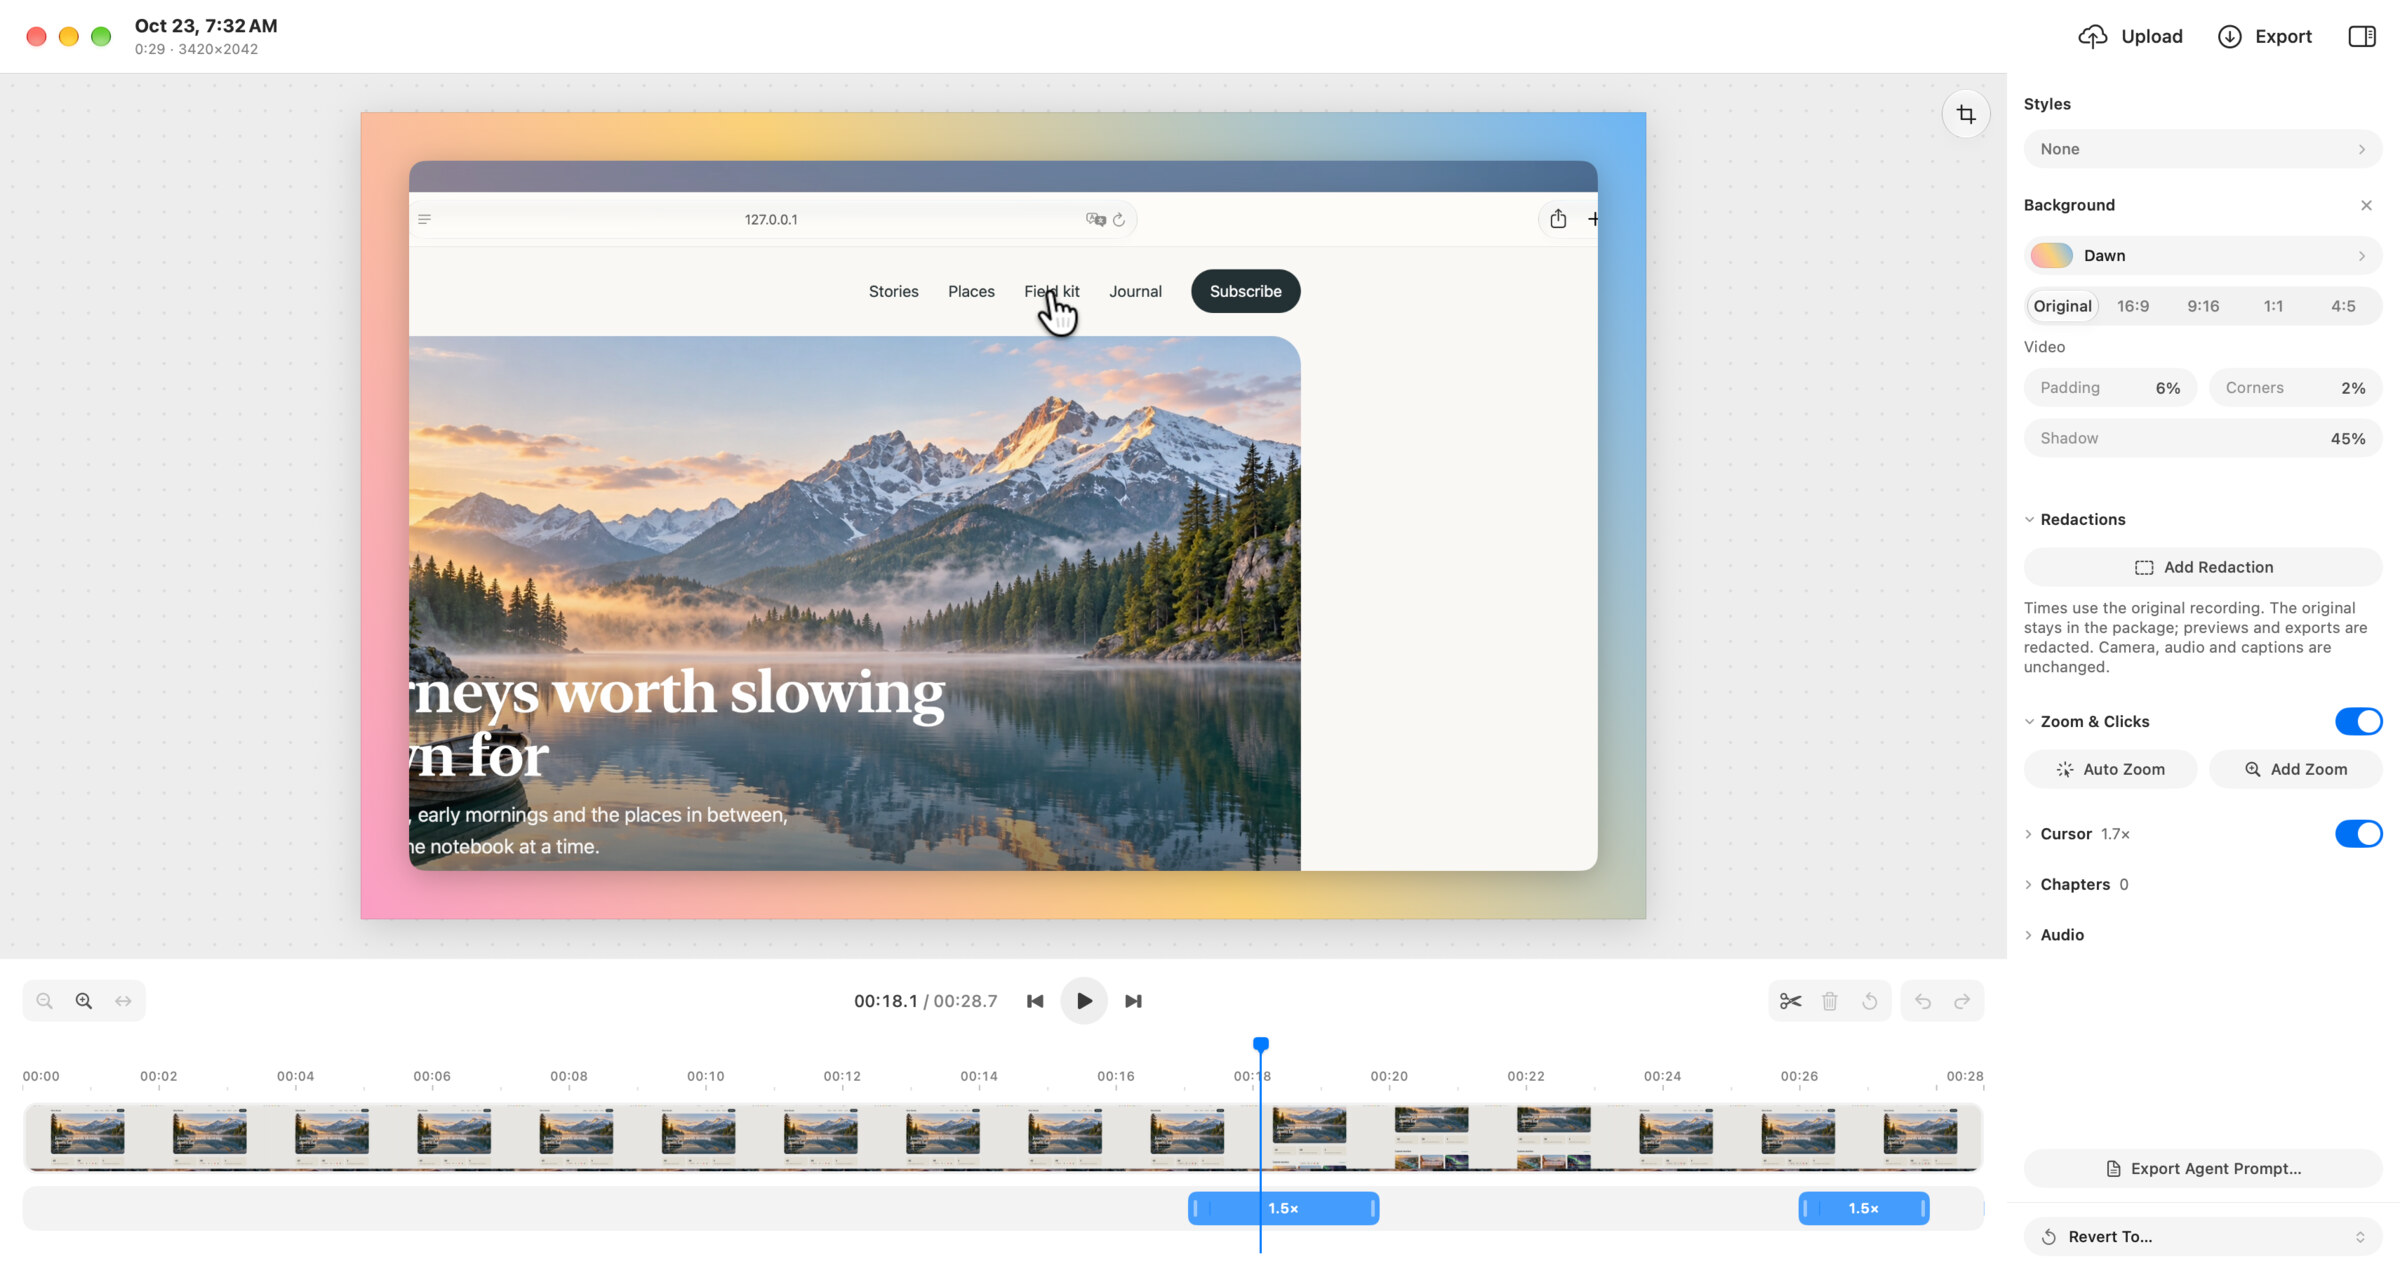
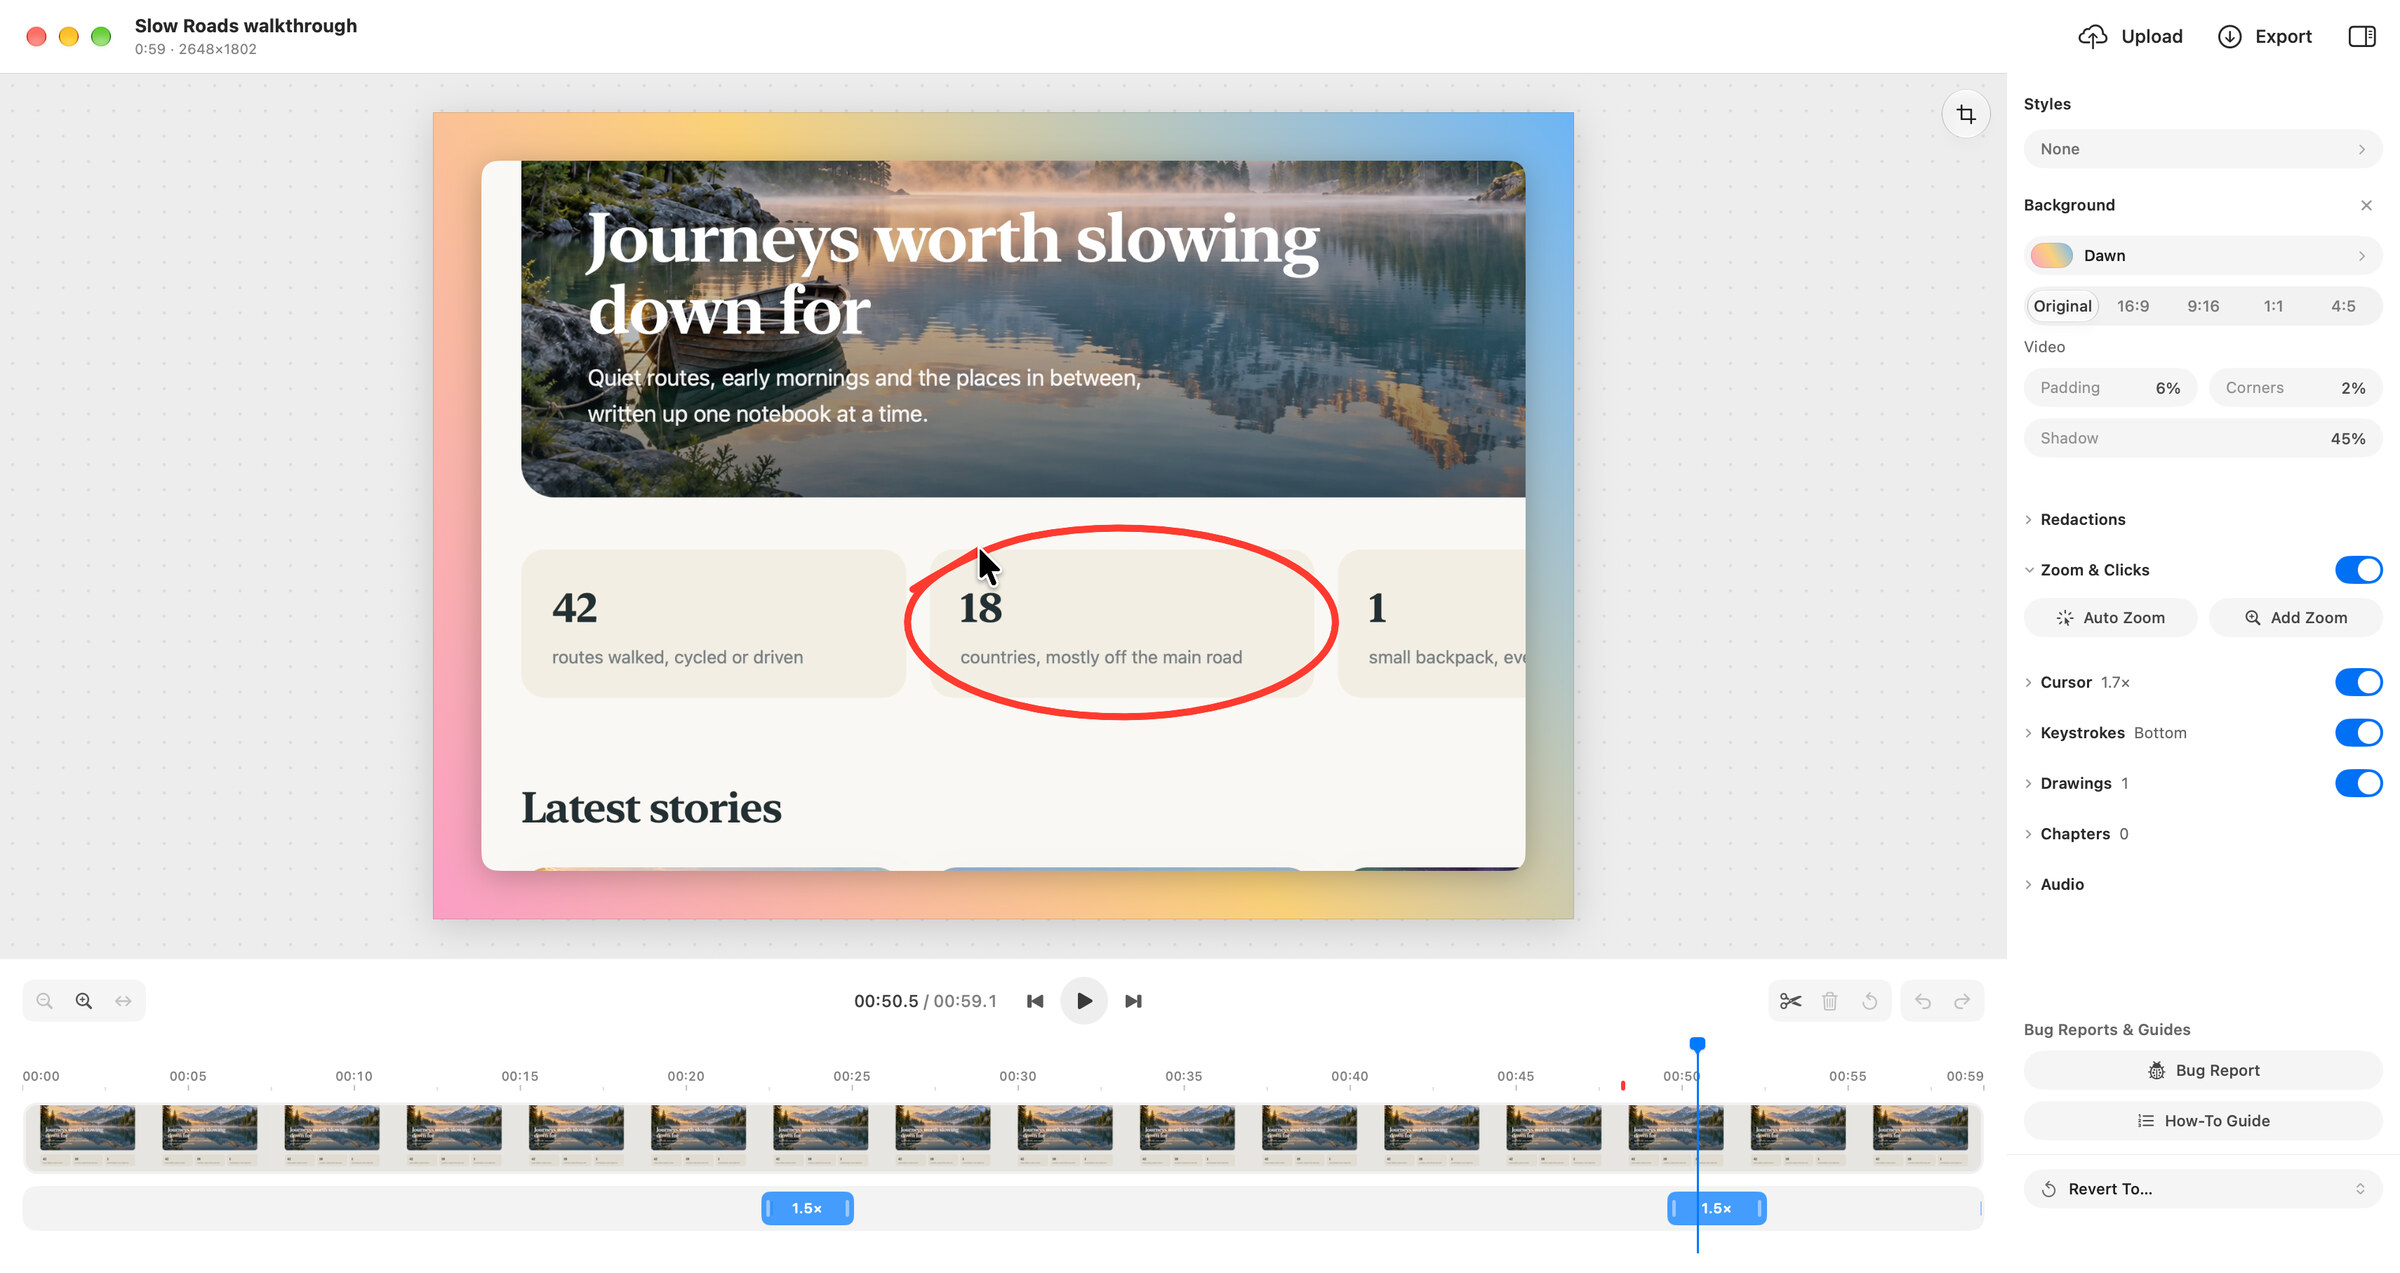
README: retake the screenshots for today's UI; add a gallery row
- Retaken (VM demo library and a local Worker, nothing published):
  share-page, library, comments, studio, editor, agent-prompt and
  share-options (now from the Files page, which has no Draft Message
  row). scrolling-capture.png is unchanged.
- New: gallery.jpg (thumbnail page) and gallery-lightbox.jpg, in a
  fourth row.
- The hero linked to a demo share that now returns 404; it links to its
  image until a new demo share is published, and the dead "Open the
  demo share" link is gone.
- Alt text and captions follow the new images: sparkles instead of the
  green check, Studio's Bug Report and How-To Guide, the stale mark
  described as an orange arrow.

diff --git a/README.md b/README.md
@@ -15,27 +15,27 @@ Sukusho started as a fork of [Screendrop](https://github.com/fayazara/Screendrop
 > [!NOTE]
 > There are no releases yet. To use Sukusho, [build it from source](#building-from-source). It is under active development, so expect rough edges.
 
-<a href="https://screendrop-worker.tommyent.workers.dev/cfcda18c"><img src="docs/screenshots/share-page.jpg" alt="An example Sukusho share page in a browser, with comments allowed: a screenshot of the Sukusho editor marking up a travel website, titled Sukusho editor, with its size, a view count, a like button, Copy Image and Download below it, and a comment box beside it" width="100%"></a>
+<a href="docs/screenshots/share-page.jpg"><img src="docs/screenshots/share-page.jpg" alt="An example Sukusho share page in a browser, with comments allowed: a screenshot of the Sukusho editor marking up a travel website, titled Sukusho editor, with its size, a view count, a like button, a Copy Image button and Download below it, and a comment box beside it" width="100%"></a>
 
-This is a typical share page, as the person you send a link to sees it: the capture, a like button, Copy Image and Download, and a place to comment. Comments can be turned off for each share. The page carries the name and logo you choose in Sukusho's settings. [Open the demo share](https://screendrop-worker.tommyent.workers.dev/cfcda18c), which has comments turned off.
+This is a typical share page, as the person you send a link to sees it: the capture, a like button, Copy Image and Download, and a place to comment. Comments can be turned off for each share. The page carries the name and logo you choose in Sukusho's settings, and follows the viewer's light or dark setting.
 
 ## Screenshots
 
 The Library keeps your captures in one window, next to everything that came back from your share pages: uploads, shared files, comments and likes.
 
-<a href="docs/screenshots/library.jpg"><img src="docs/screenshots/library.jpg" alt="Sukusho Library with nine captures of a travel website in a grid, including a 29-second recording and green cloud badges on the shared ones, the Cloud section with 7 uploads, Files, Comments and 11 likes, a green Travel tag in the sidebar, and the inspector for a lake photo" width="100%"></a>
+<a href="docs/screenshots/library.jpg"><img src="docs/screenshots/library.jpg" alt="Sukusho Library with ten captures of a travel website in a grid, including two recordings with their Agent Prompt marks and green cloud badges on the shared photos, the Cloud section with 8 uploads, Files, Received, 9 comments and 19 likes, a green Travel tag in the sidebar, and the inspector for a lake photo" width="100%"></a>
 
 Click a picture to see it full size.
 
 <table>
   <tr>
     <td width="50%" valign="top">
-      <a href="docs/screenshots/comments.jpg"><img src="docs/screenshots/thumbs/comments.jpg" alt="Sukusho Comments view listing seven viewer comments with thumbnails of the captures they're on, one of them open in the inspector" width="100%"></a>
+      <a href="docs/screenshots/comments.jpg"><img src="docs/screenshots/thumbs/comments.jpg" alt="Sukusho Comments view listing viewer comments with thumbnails of the captures they're on, one of them open in the inspector with the photo it's on" width="100%"></a>
       <br><b>Comments</b> from your share pages arrive in the Library, each with the upload it's on.
     </td>
     <td width="50%" valign="top">
-      <a href="docs/screenshots/studio.jpg"><img src="docs/screenshots/thumbs/studio.jpg" alt="Sukusho Studio editing a 29-second recording of a travel website: the video zoomed in on a gradient background, the clip timeline with two zooms below, and the inspector with background, redaction and zoom settings" width="100%"></a>
-      <br><b>Studio</b> edits a recording before you export or upload it.
+      <a href="docs/screenshots/studio.jpg"><img src="docs/screenshots/thumbs/studio.jpg" alt="Sukusho Studio editing a 59-second recording of a travel website: the video zoomed in on a card circled in red pen, on a gradient background, the clip timeline with two zooms below, and the inspector with background, zoom, cursor and drawing settings, ending in Bug Report and How-To Guide buttons" width="100%"></a>
+      <br><b>Studio</b> edits a recording before you export or upload it, and turns it into a bug report or a how-to guide.
     </td>
   </tr>
   <tr>
@@ -50,12 +50,22 @@ Click a picture to see it full size.
   </tr>
   <tr>
     <td width="50%" valign="top">
-      <a href="docs/screenshots/agent-prompt.jpg"><img src="docs/screenshots/thumbs/agent-prompt.jpg" alt="Above, the Sukusho Library with a recording called Slow Roads walkthrough selected, a green check beside its title for its current Agent Prompt and an outline circle on an older recording, and the inspector naming Safari and the window it was recorded in. Below, a strip of eight frames from the prompt, with a red ring on the pointer as it draws a red pen loop around a card of the travel website" width="100%"></a>
-      <br><b>Bug Report</b> turns a recording into a walkthrough for a coding agent and a report to send to a person. The green check marks the newest prompt; below it, one of the prompt's frame strips, with the pointer ringed and the pen stroke drawn in.
+      <a href="docs/screenshots/agent-prompt.jpg"><img src="docs/screenshots/thumbs/agent-prompt.jpg" alt="Above, the Sukusho Library with a recording called Slow Roads walkthrough selected, a green sparkles circle beside its title for its current Agent Prompt and an outline one on an older recording, and the inspector naming Safari and the window it was recorded in. Below, a strip of eight frames from the prompt, with a red ring on the pointer and a red pen loop around a card of the travel website" width="100%"></a>
+      <br><b>Bug Report</b> turns a recording into a walkthrough for a coding agent and a report to send to a person. The green sparkles mark the newest prompt; below it, one of the prompt's frame strips, with the pointer ringed and the pen stroke drawn in.
     </td>
     <td width="50%" valign="top">
-      <a href="docs/screenshots/share-options.jpg"><img src="docs/screenshots/thumbs/share-options.jpg" alt="Sukusho Share Options over the image editor: the title Home page, a link that expires in 7 days, a password, End-to-end encryption turned on with its note that only people with the full link can open the file, and comments and likes allowed, with Cancel and Upload buttons" width="100%"></a>
+      <a href="docs/screenshots/share-options.jpg"><img src="docs/screenshots/thumbs/share-options.jpg" alt="Sukusho Share Options for a file: the title Coast trip notes, a link that expires in 7 days, a password, End-to-end encryption turned on with its note that only people with the full link can open the file, and comments and likes allowed, with Cancel and Upload buttons" width="100%"></a>
       <br><b>Share Options</b> set a title, an expiry and a password for the link, and can encrypt the file end to end, so the Worker stores only a file it can't read.
+    </td>
+  </tr>
+  <tr>
+    <td width="50%" valign="top">
+      <a href="docs/screenshots/gallery.jpg"><img src="docs/screenshots/thumbs/gallery.jpg" alt="A Sukusho gallery page in a browser: the title Slow Roads trip, its owner and 6 images, and six travel photos as thumbnails in rows, each at its own shape" width="100%"></a>
+      <br><b>Galleries</b> put 2 to 100 screenshots behind one link, on a page of thumbnails.
+    </td>
+    <td width="50%" valign="top">
+      <a href="docs/screenshots/gallery-lightbox.jpg"><img src="docs/screenshots/thumbs/gallery-lightbox.jpg" alt="A gallery image open in the lightbox: a coast photo, 4 of 6, with arrows to the others, and beside it the image's title, size, 2 views, 6 likes, copy and Download buttons, two comments and a comment box" width="100%"></a>
+      <br>Each image in a gallery opens in a <b>lightbox</b> with its own likes and comments.
     </td>
   </tr>
 </table>
@@ -114,7 +124,7 @@ Opening Sukusho shows the Library; when it starts at login, it stays in the menu
   - The report for people is in the folder's `Bug Report` folder: `bug-report.html` holds its images and opens on its own, so it's the file to send, and `bug-report.md` with `images/` is for Jira, Linear or GitHub. It gives the environment (the app and its version, macOS and the screen's scale), the steps to reproduce (without pointer rests, which the prompt keeps), what happened from the narration, the take's app log when it has one, and the stills. An agent's export through Agent access writes it too, but leaves Finder alone.
   - It's saved in `~/Agent Prompts`, one folder per recording, named after the recording's package and replaced when you export again. `~/Agent Prompts/latest.json` names the newest export, so a terminal action can read it.
   - A progress ring shows on Studio's button and on the Library card while it works, and a short "ready to paste" chime plays when it's done if **Play sounds** is on.
-  - On the Library card, a sparkles circle beside the title shows the prompt's state: green for the one `latest.json` names (click to show it in Finder), an outline for an older one (click to make it the newest), and amber when the recording was edited since (click to export it again).
+  - On the Library card, a sparkles circle beside the title shows the prompt's state: green for the one `latest.json` names (click to show it in Finder), an outline for an older one (click to make it the newest), and an orange arrow when the recording was edited since (click to export it again).
   - Moving a recording to the Trash moves its prompt too.
 - **How-To Guide**, beside Bug Report in Studio and the Library's right-click menu, writes the same moments as a step-by-step guide: a title and a numbered step for each click, shortcut, pointer rest, scroll and pen stroke, with its still and what was said. It saves a folder in your export location with `guide.html` (its images inside, so it opens on its own), `guide.md` and `images/`, copies the Markdown for Jira, Linear or GitHub with a note that the images are local files to attach, shows the folder in Finder, and plays the same "ready to paste" chime. Narration is used as transcribed.
 - Studio has no Save button: a project saves after a two-second pause, when you switch away, close or quit, and with **File → Save** (**Command + S**). **File → Revert To** goes back to the original recording, to how the window opened, or to one of the last five sessions. Double-click the title to rename the recording.
